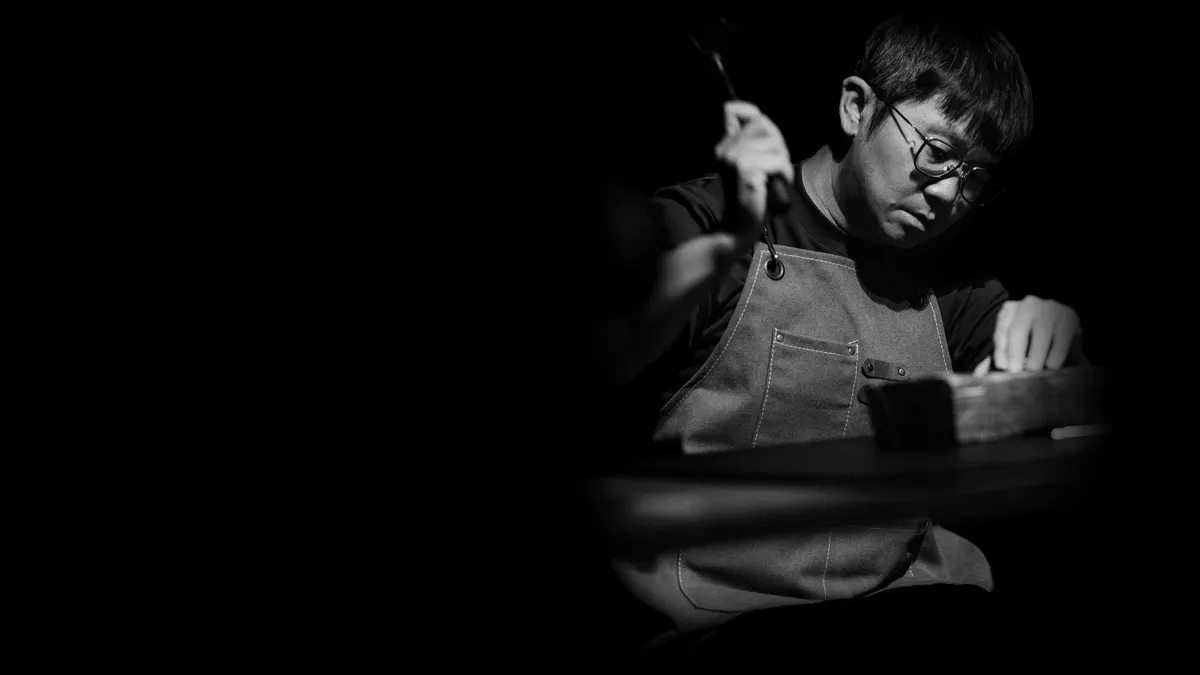
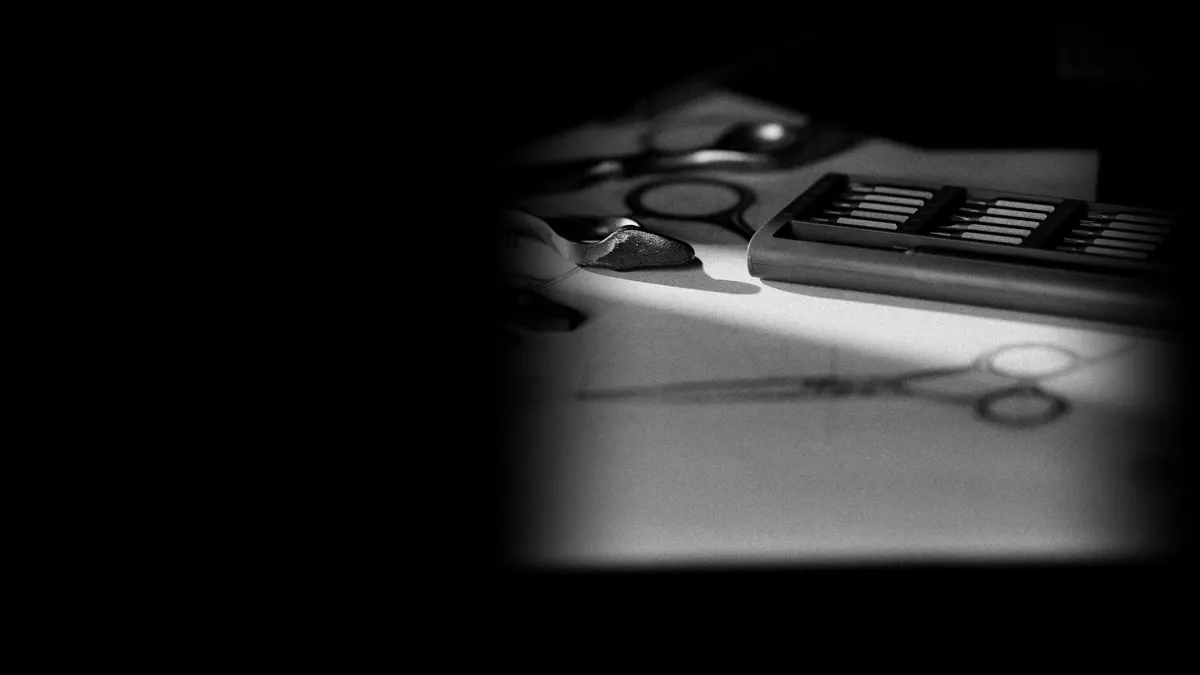
Home: 實用 band uses design sketch 8Y9A8534 (B&W)

Changed region(s): [[0.4317, 0.0311, 0.9867, 0.9333], [0.8325, 0.0622, 0.8633, 0.0933]]

diff --git a/index.html b/index.html
@@ -98,7 +98,7 @@
 
 <div class="bs-flow">
   <section class="bs bs--l">
-    <picture class="bs__pic"><source media="(max-width:767px)" srcset="assets/img/bs-h-craft-m.webp" width="1080" height="1110"><img src="assets/img/bs-h-craft.webp" srcset="assets/img/bs-h-craft-1200.webp 1200w, assets/img/bs-h-craft.webp 2400w" sizes="100vw" width="2400" height="1350" alt="魏子淵在工作桌前敲打調整剪刀" loading="lazy" decoding="async"></picture>
+    <picture class="bs__pic"><source media="(max-width:767px)" srcset="assets/img/bs-h-craft-m.webp" width="1080" height="866"><img src="assets/img/bs-h-craft.webp" srcset="assets/img/bs-h-craft-1200.webp 1200w, assets/img/bs-h-craft.webp 2400w" sizes="100vw" width="2400" height="1350" alt="桌上的設計手稿、黑色毫剪與計算機" loading="lazy" decoding="async"></picture>
     <div class="bs__text"><p class="bs__zh"><span class="nw">實用，</span><span class="nw">不花俏，</span><span class="nw">每個細節都經過推敲。</span></p><p class="bs__en en">Practical, never showy. Every detail, considered.</p></div>
   </section>
   <section class="bs bs--l">
